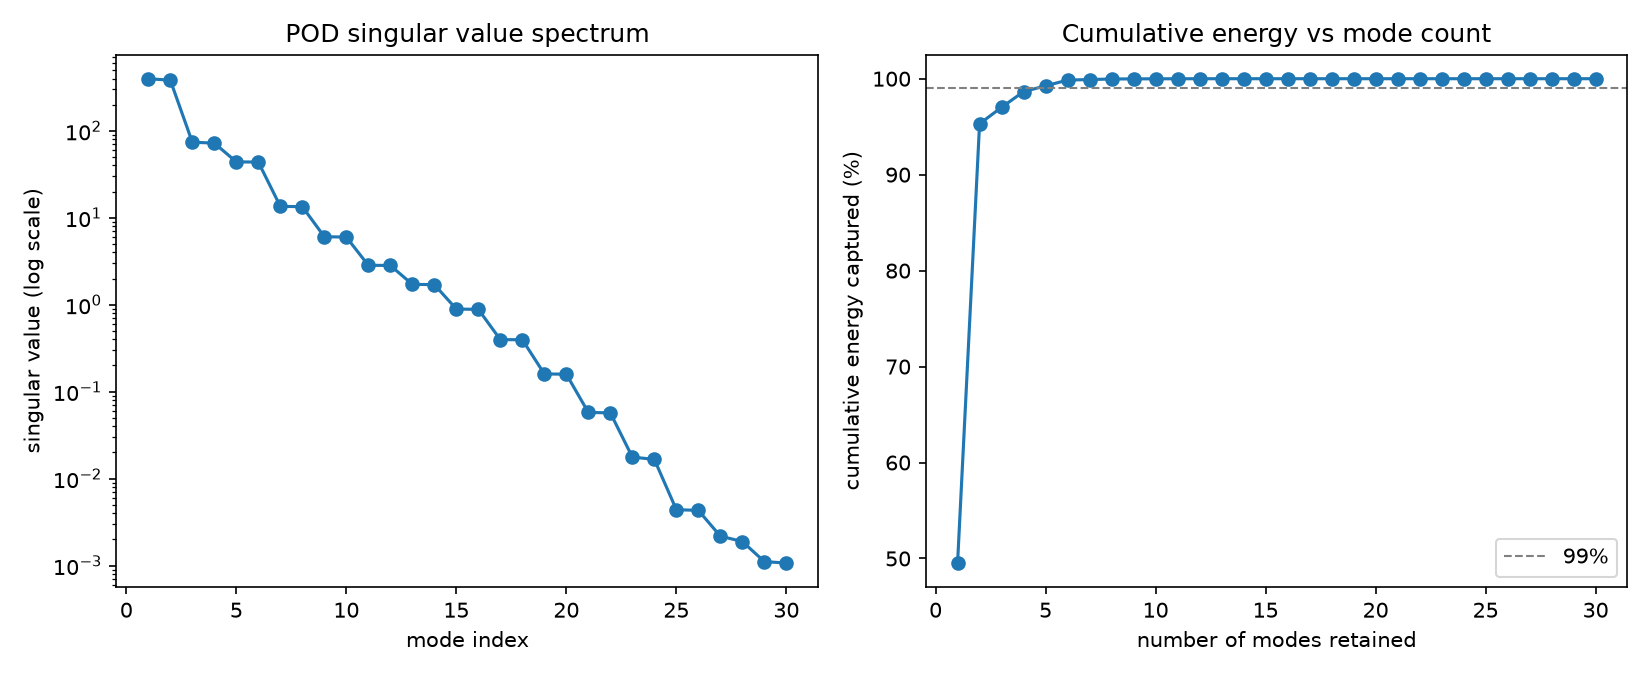
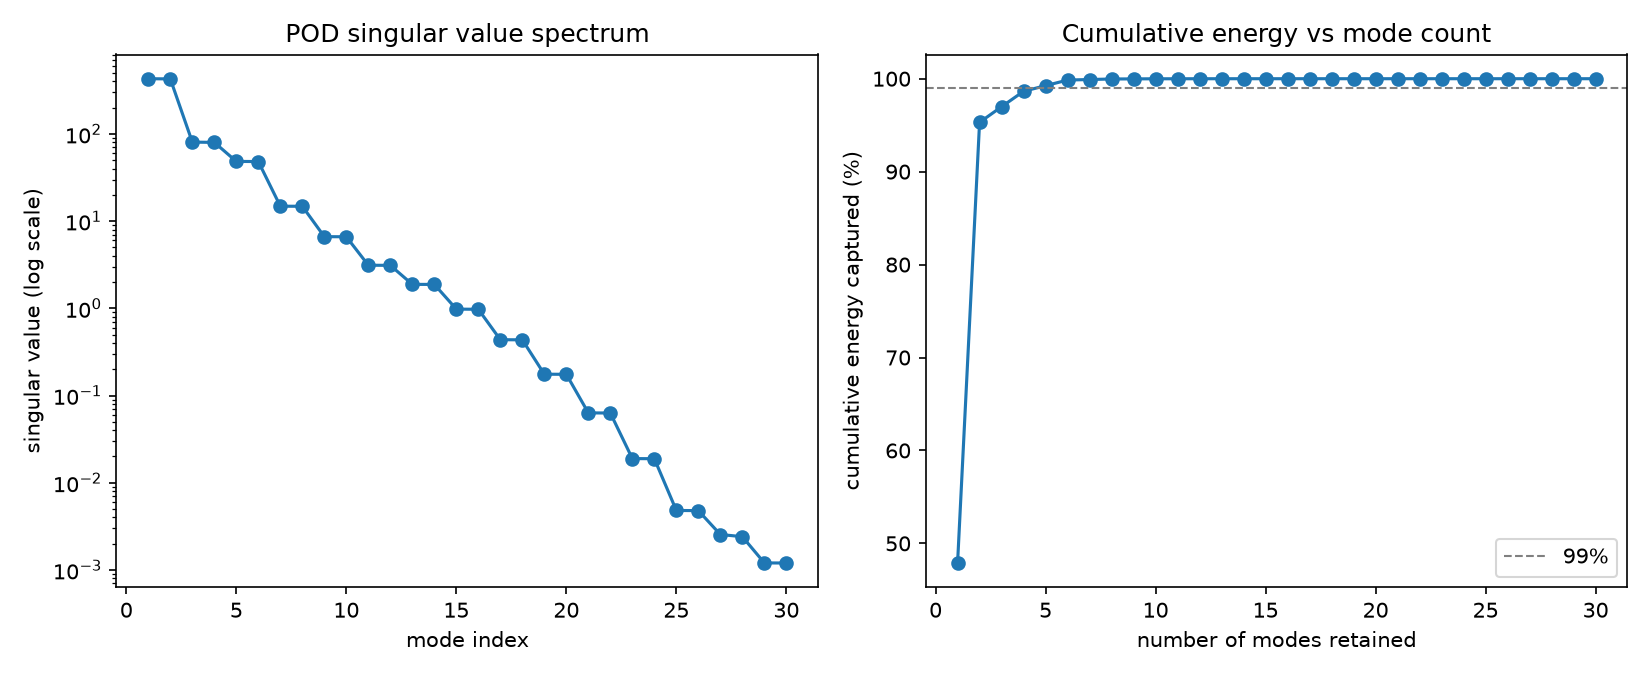
Fix gappy POD train/test split: contiguous block, not even/odd interleave
The interleaved split put every held-out snapshot only Delta_t=0.1
(~1.6% of the shedding period) from two bracketing basis snapshots -
near temporal interpolation, not a real generalization test. Switched
to a contiguous block split (basis = early chunk, test = held-out
block at the end, size configurable via --NTestBlock).

Result barely changed after the fix (checked, not assumed): verified
no leakage in X_mean, and confirmed stable across test-block sizes
30/50/80. This flow is a strict periodic limit cycle at Re=100, and
the basis already spans ~2.5+ shedding periods even at the smallest
block tested, so a held-out block later in the timeline is a different
phase of the same already-learned cycle rather than genuinely new
dynamics - the interleaved-split concern matters far more for chaotic/
broadband-turbulent flows than it does here. Old (leaky) results kept
side by side, not overwritten, for direct contrast in the write-up.

diff --git a/src/gappy_pod/build_pod_basis.py b/src/gappy_pod/build_pod_basis.py
@@ -1,9 +1,9 @@
 # -*- coding: utf-8 -*-
 """
 Gappy POD baseline, step 1: build a joint (u,v,p) POD basis from a subset of
-the real dataset's snapshots ("basis" timesteps - every 2nd timestep, held-in
-for training the basis; the alternating timesteps are held out for testing
-gappy reconstruction, see gappy_reconstruct.py).
+the real dataset's snapshots ("basis" timesteps - a contiguous early block of
+the timeline, held-in for training the basis; a contiguous held-out block at
+the end is used for testing gappy reconstruction, see gappy_reconstruct.py).
 
 Plain numpy/scipy/matplotlib. No TensorFlow, no GPU - runs on the laptop.
 
@@ -30,6 +30,7 @@ def main():
     parser = argparse.ArgumentParser()
     parser.add_argument('--DataFile', default=DEFAULT_DATA_FILE)
     parser.add_argument('--RMax', type=int, default=R_MAX)
+    parser.add_argument('--NTestBlock', type=int, default=50, help='Size of the held-out contiguous test block at the end of the timeline.')
     parser.add_argument('--Out', default='pod_basis.npz')
     args = parser.parse_args()
 
@@ -48,16 +49,22 @@ def main():
     nodes_x0 = nodes_X[0, :]
     nodes_y0 = nodes_Y[0, :]
 
-    # Basis timesteps: every 2nd snapshot, starting at index 0. The alternating
-    # (odd-index) snapshots are held out entirely - never touched here, only
-    # used later in gappy_reconstruct.py for testing generalization. The PINN
-    # gets no equivalent held-out split (it trains on all 201 steps plus
-    # physics), so this is a genuinely different, and harder, evaluation
-    # protocol for POD - noted here and again in the eval step, not hidden.
-    basis_idx = np.arange(0, Nt, 2)
-    test_idx = np.arange(1, Nt, 2)
-    print('Basis snapshots: %d (indices 0,2,4,...) | held-out test snapshots: %d' %
-          (len(basis_idx), len(test_idx)))
+    # Block split: basis built from a contiguous early chunk of the timeline,
+    # tested on a held-out contiguous chunk that shares no immediate neighbor
+    # with any basis snapshot. An earlier version used an even/odd interleave
+    # (basis = even indices, test = odd), which let every test snapshot sit
+    # just Delta_t=0.1 - ~1.6% of the ~6.06-time-unit shedding period - from
+    # two bracketing basis snapshots. Since POD mode coefficients evolve
+    # smoothly in time, that made "reconstruction" close to trivial temporal
+    # interpolation rather than a real test of generalizing across the
+    # shedding phase, and produced implausibly good numbers. The PINN gets no
+    # equivalent held-out split at all (it trains on all 201 steps plus
+    # physics), so POD is still being tested under a harder protocol than the
+    # PINN - noted here and again in the eval step, not hidden.
+    basis_idx = np.arange(0, Nt - args.NTestBlock)
+    test_idx = np.arange(Nt - args.NTestBlock, Nt)
+    print('Basis snapshots: %d (indices 0..%d) | held-out test block: %d (indices %d..%d)' %
+          (len(basis_idx), basis_idx[-1], len(test_idx), test_idx[0], test_idx[-1]))
 
     # Snapshot matrix: stack [u; v; p] per timestep into one column of length
     # 3*Nnodes, assemble into X of shape [3*Nnodes, N_basis_snapshots].

diff --git a/src/gappy_pod/evaluate_regions.py b/src/gappy_pod/evaluate_regions.py
@@ -82,9 +82,9 @@ def main():
 
     lines = []
     lines.append('Gappy POD regional evaluation - held-out test snapshots only')
-    lines.append('(%d test snapshots, alternating with the %d snapshots used to build the POD basis - '
-                  'a held-out split the PINN itself does not get, see build_pod_basis.py)' %
-                  (len(test_idx), 201 - len(test_idx)))
+    lines.append('(%d held-out test snapshots forming a contiguous block at the end of the '
+                  'record, unseen by the POD basis - a held-out split the PINN itself does not '
+                  'get, see build_pod_basis.py)' % len(test_idx))
     lines.append('')
 
     summary_rows = []
